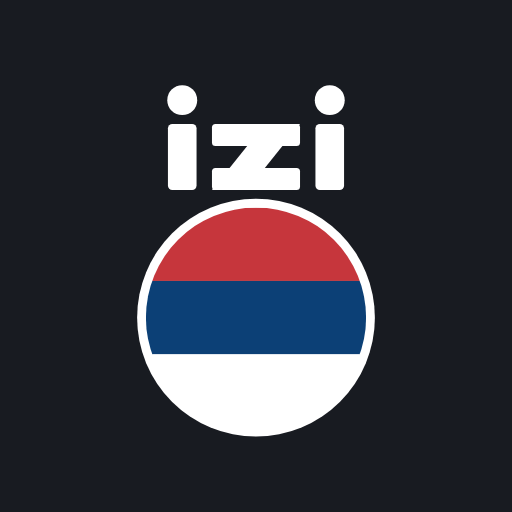
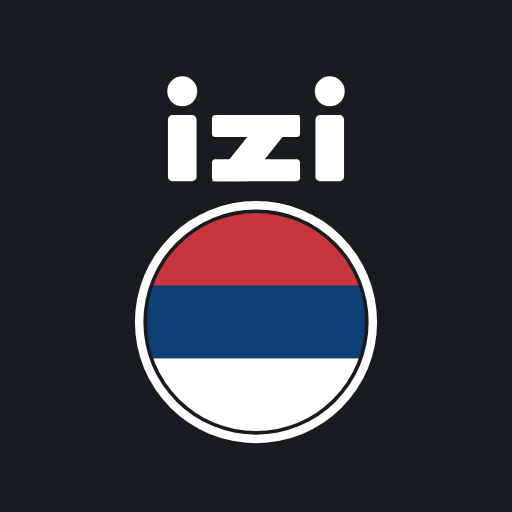
Единый фавикон на лендинг и кабинет, тёмный шов вокруг флага
Фавикон раньше был свой у каждого проекта и разный между лендингом и
кабинетом. Теперь один набор: favicon.svg + png 16/32/48 и
apple-touch-icon.png 180. На лендингах в apple-touch-icon стоял SVG —
iOS его не понимает и делал скриншот страницы.

Фавикон устроен не так, как иконка приложения: флаг во всю площадь, без
логотипа, круга и фона. На 16 px «izi» превращается в грязь, а кольцо
шириной 2 единицы при 32 px это 0.6 пикселя — оно не выживает при
растеризации.

В самой иконке добавлен тёмный шов между флагом и белым кольцом. Без него
белая нижняя треть сербского флага сливалась с кольцом и круг терял форму.
Шов, в свою очередь, сливается с чёрной полосой немецкого флага, но там
границу держит белое кольцо снаружи — так закрыты оба края палитры.

Changed region(s): [[0.25, 0.125, 0.75, 0.875]]

diff --git a/index.html b/index.html
@@ -9,7 +9,8 @@
   <title>IziSerb — Сербский язык</title>
   <link rel="manifest" href="manifest.json">
   <link rel="icon" type="image/svg+xml" href="favicon.svg">
-  <link rel="icon" type="image/png" sizes="192x192" href="icon-192.png">
+  <link rel="icon" type="image/png" sizes="32x32" href="favicon-32.png">
+  <link rel="icon" type="image/png" sizes="16x16" href="favicon-16.png">
   <link rel="apple-touch-icon" href="apple-touch-icon.png">
   <link rel="preconnect" href="https://fonts.googleapis.com">
   <link rel="preconnect" href="https://fonts.gstatic.com" crossorigin>
